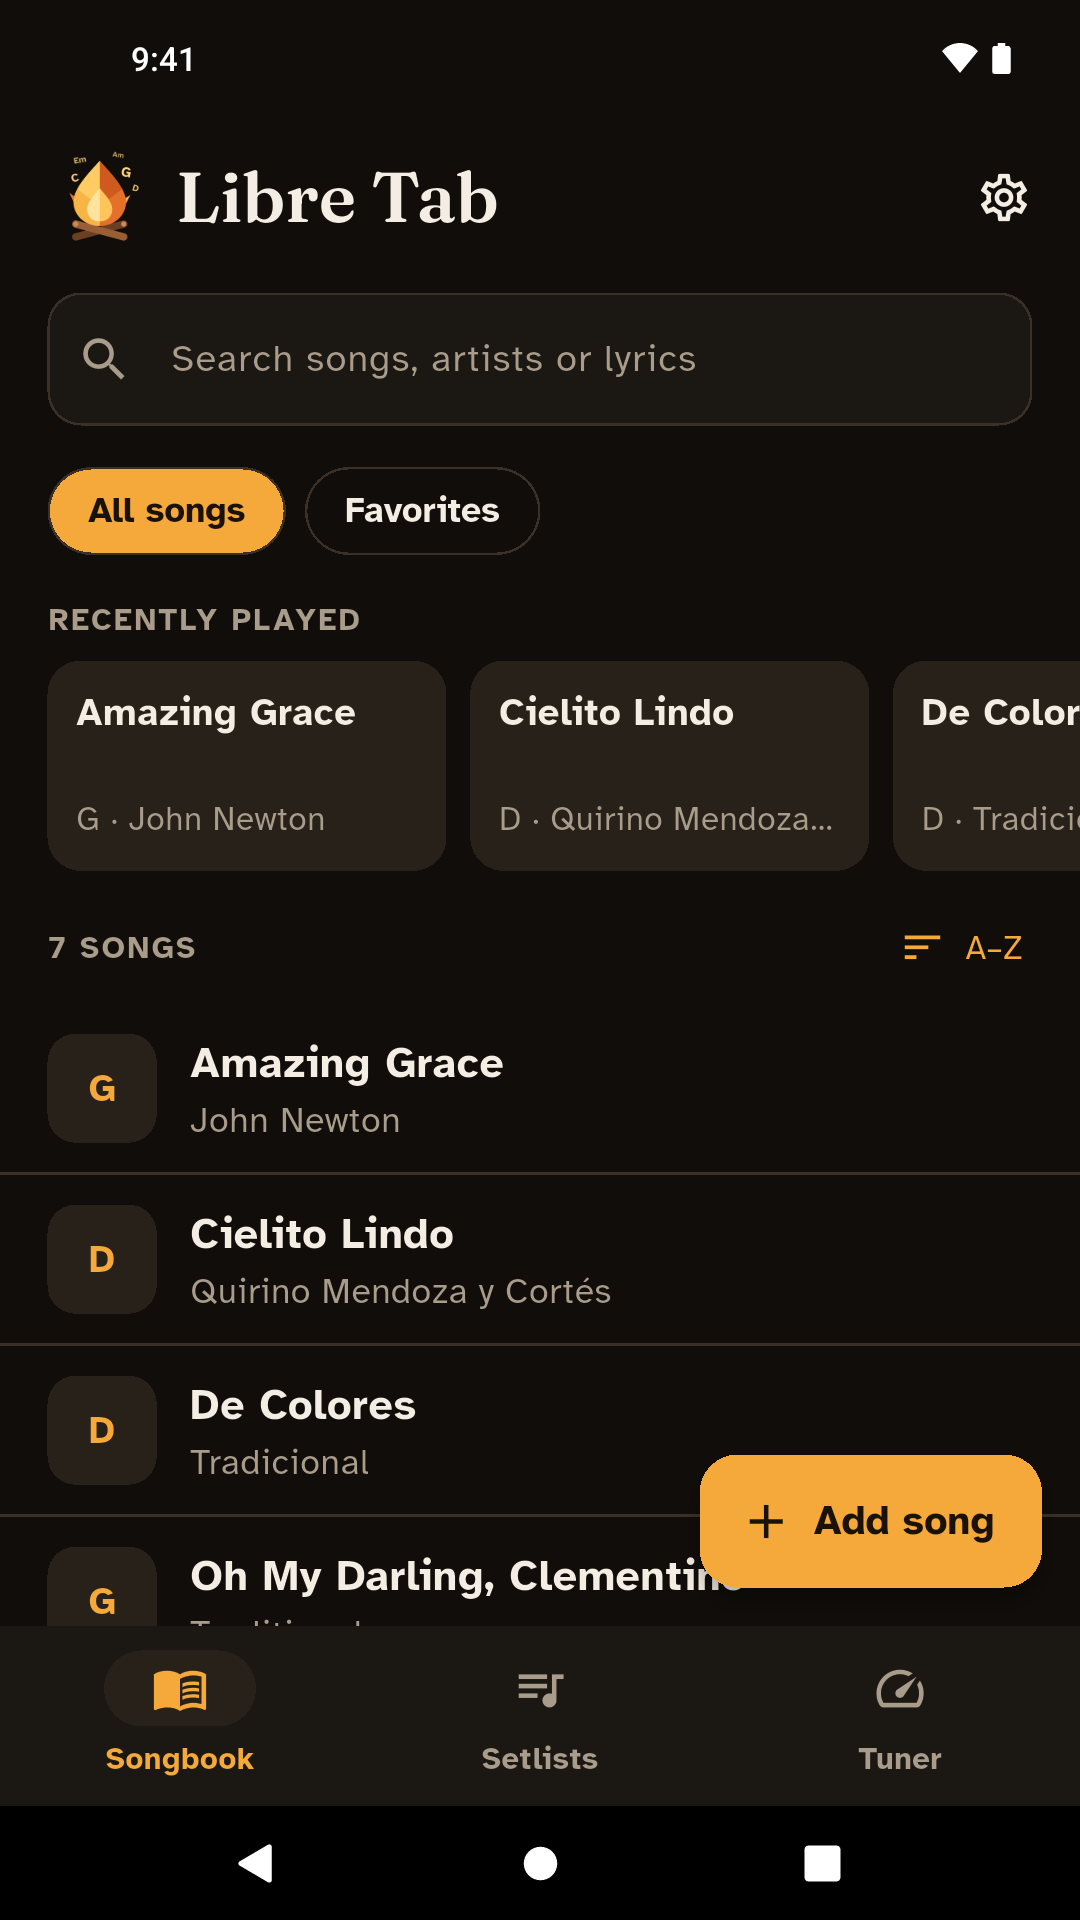
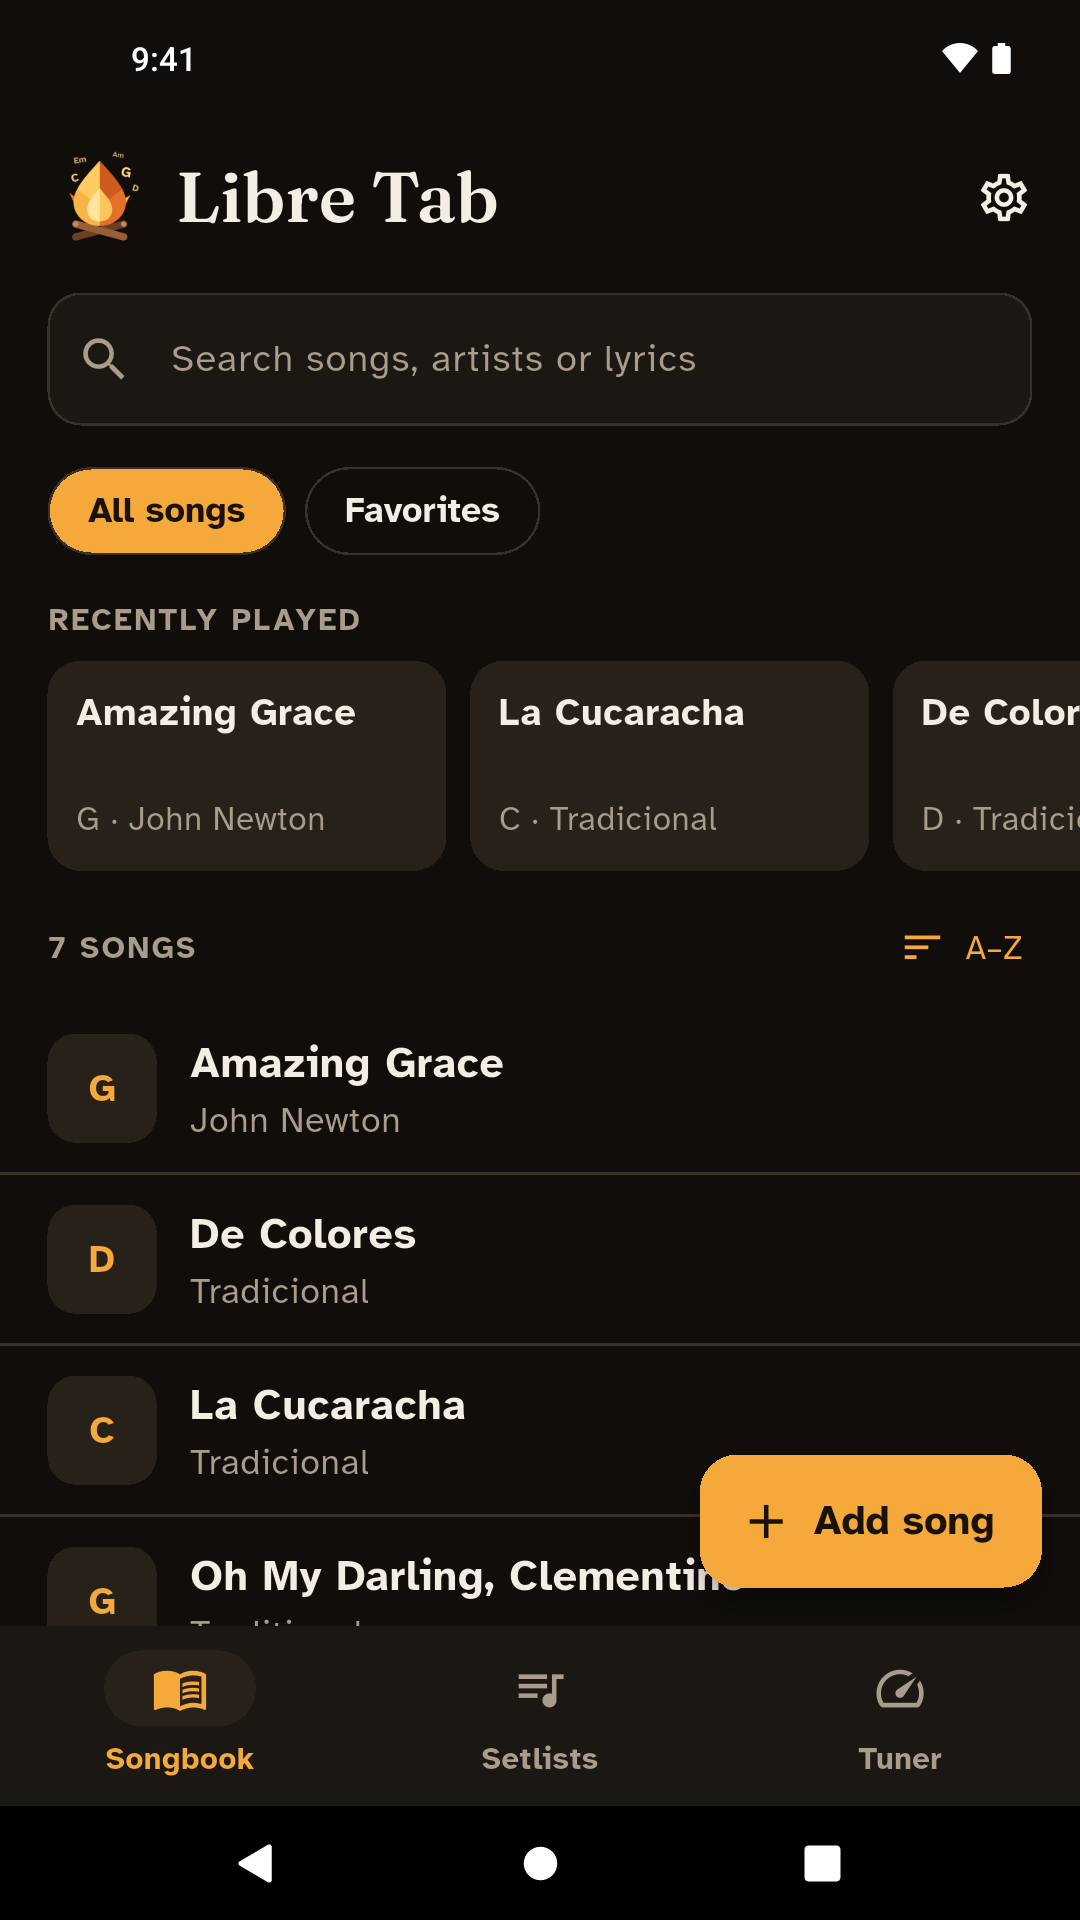
Apple review and security audit: photo decoding, manifest, deletion, song rights
- iOS: scanned photos are no longer decoded at full size. Dimensions are
  checked first (over 200 MP refused) and ImageIO decodes straight to at
  most 4,096 px, turning the photo upright on the way; a crafted huge
  image could otherwise exhaust memory.
- Privacy manifest declares the disk-space API SQLite uses (E174.1),
  found by scanning the built frameworks; App Store Connect would flag it.
- Privacy policy and the in-app Privacy screen say how long data is kept,
  how to delete it and how to withdraw permissions (5.1.1(i)).
- Cielito Lindo replaced by La Cucaracha (traditional): its author died
  in 1957, so it's still protected in the EU and Mexico (5.2.1). Test
  fixture, screenshots (iPhone, iPad, Android) updated.
- App Review notes gain the content-rights basis for each song,
  accessibility labels, files, payments and GPL rows; SECURITY.md
  records the third audit (history, licenses, SQLite, photos, R8).

diff --git a/ios/Runner/AppDelegate.swift b/ios/Runner/AppDelegate.swift
@@ -81,25 +81,35 @@ final class TextRecognition: NSObject, FlutterPlugin {
     }
   }
 
-  /// The photo turned upright: photos can be stored sideways with an
-  /// orientation tag, and lines must run left to right.
+  /// Longest side the photo is read at: plenty for printed text (a 48 MP
+  /// photo is 8064 pixels wide), and a bounded amount of memory.
+  private static let maxSide = 4096
+
+  /// More pixels than any camera takes (a 48 MP photo is 49 million): a
+  /// small file claiming more is a "decompression bomb" and is refused
+  /// before anything is decoded.
+  private static let maxPixels = 200_000_000
+
+  /// The photo turned upright (photos can be stored sideways with an
+  /// orientation tag, and lines must run left to right) and no bigger than
+  /// [maxSide], decoded straight to that size by ImageIO so a huge image
+  /// never sits in memory at full size.
   private static func uprightImage(path: String) -> CGImage? {
     let url = URL(fileURLWithPath: path)
     guard let source = CGImageSourceCreateWithURL(url as CFURL, nil),
-      let image = CGImageSourceCreateImageAtIndex(source, 0, nil)
+      let properties = CGImageSourceCopyPropertiesAtIndex(source, 0, nil)
+        as? [CFString: Any],
+      let width = properties[kCGImagePropertyPixelWidth] as? Int,
+      let height = properties[kCGImagePropertyPixelHeight] as? Int,
+      width > 0, height > 0, width * height <= maxPixels
     else { return nil }
-    let properties = CGImageSourceCopyPropertiesAtIndex(source, 0, nil) as? [CFString: Any]
-    let tag = (properties?[kCGImagePropertyOrientation] as? UInt32) ?? 1
-    let orientations: [UInt32: UIImage.Orientation] = [
-      2: .upMirrored, 3: .down, 4: .downMirrored, 5: .leftMirrored, 6: .right,
-      7: .rightMirrored, 8: .left,
+    let options: [CFString: Any] = [
+      kCGImageSourceCreateThumbnailFromImageAlways: true,
+      kCGImageSourceCreateThumbnailWithTransform: true,  // applies the orientation
+      kCGImageSourceThumbnailMaxPixelSize: min(max(width, height), maxSide),
+      kCGImageSourceShouldCacheImmediately: true,
     ]
-    guard let orientation = orientations[tag] else { return image }
-    let turned = UIImage(cgImage: image, scale: 1, orientation: orientation)
-    let format = UIGraphicsImageRendererFormat()
-    format.scale = 1
-    return UIGraphicsImageRenderer(size: turned.size, format: format)
-      .image { _ in turned.draw(at: .zero) }.cgImage
+    return CGImageSourceCreateThumbnailAtIndex(source, 0, options as CFDictionary)
   }
 }
 

diff --git a/test/core/chordpro/sample_files_test.dart b/test/core/chordpro/sample_files_test.dart
@@ -33,15 +33,15 @@ void main() {
     ]);
   });
 
-  test('cielito-lindo.txt: Spanish labels and chords', () {
-    final result = ChordSheetImporter.convert(sample('cielito-lindo.txt'));
+  test('la-cucaracha.txt: Spanish labels and chords', () {
+    final result = ChordSheetImporter.convert(sample('la-cucaracha.txt'));
     expect(result.sections, 2);
     final song = ChordProParser.parse(result.chordPro);
     final blocks = song.blocks.whereType<SectionBlock>().toList();
     expect(blocks.first.label, 'Estrofa 1');
     expect(blocks.last.kind, SectionKind.chorus);
-    expect(segs(blocks.last.lines.first).first, ('A', 'Ay, ay, ay, '));
-    expect(song.chords.toSet(), {'A', 'E7', 'A7', 'D'});
+    expect(segs(blocks.last.lines.first).first.$1, 'G');
+    expect(song.chords.toSet(), {'G', 'D7'});
   });
 
   test('oh-susanna.cho: ChordPro with capo, chorus repeat and a comment', () {

diff --git a/lib/l10n/app_localizations.dart b/lib/l10n/app_localizations.dart
@@ -1327,6 +1327,18 @@ abstract class AppLocalizations {
   /// In en, this message translates to:
   /// **'That\'s too much text for one song.'**
   String get pasteTooBig;
+
+  /// No description provided for @privacyDeleteTitle.
+  ///
+  /// In en, this message translates to:
+  /// **'Keeping and deleting'**
+  String get privacyDeleteTitle;
+
+  /// No description provided for @privacyDeleteBody.
+  ///
+  /// In en, this message translates to:
+  /// **'Everything stays on this device until you delete it: a song (swipe it left), every song (Settings → Delete all songs), or all of it by uninstalling the app. There is no copy anywhere else. Turn the microphone or camera off in your phone\'s settings whenever you like.'**
+  String get privacyDeleteBody;
 }
 
 class _AppLocalizationsDelegate

diff --git a/lib/l10n/app_localizations_es.dart b/lib/l10n/app_localizations_es.dart
@@ -762,4 +762,11 @@ class AppLocalizationsEs extends AppLocalizations {
 
   @override
   String get pasteTooBig => 'Es demasiado texto para una canción.';
+
+  @override
+  String get privacyDeleteTitle => 'Guardar y borrar';
+
+  @override
+  String get privacyDeleteBody =>
+      'Todo se queda en este dispositivo hasta que lo borres: una canción (deslízala a la izquierda), todas (Ajustes → Borrar todas las canciones), o todo desinstalando la app. No hay una copia en ningún otro lugar. Desactiva el micrófono o la cámara en los ajustes de tu teléfono cuando quieras.';
 }

diff --git a/lib/l10n/app_localizations_en.dart b/lib/l10n/app_localizations_en.dart
@@ -765,4 +765,11 @@ class AppLocalizationsEn extends AppLocalizations {
 
   @override
   String get pasteTooBig => 'That\'s too much text for one song.';
+
+  @override
+  String get privacyDeleteTitle => 'Keeping and deleting';
+
+  @override
+  String get privacyDeleteBody =>
+      'Everything stays on this device until you delete it: a song (swipe it left), every song (Settings → Delete all songs), or all of it by uninstalling the app. There is no copy anywhere else. Turn the microphone or camera off in your phone\'s settings whenever you like.';
 }

diff --git a/lib/features/settings/presentation/privacy_screen.dart b/lib/features/settings/presentation/privacy_screen.dart
@@ -46,6 +46,7 @@ class PrivacyScreen extends StatelessWidget {
             section(l10n.privacySongsTitle, l10n.privacySongsBody),
             section(l10n.privacyMicTitle, l10n.privacyMicBody),
             section(l10n.privacyPhotosTitle, l10n.privacyPhotosBody),
+            section(l10n.privacyDeleteTitle, l10n.privacyDeleteBody),
             const SizedBox(height: 28),
             Text(l10n.privacyMore, style: TextStyle(color: colors.muted)),
             const SizedBox(height: 4),

diff --git a/test/features/settings/settings_screen_test.dart b/test/features/settings/settings_screen_test.dart
@@ -138,7 +138,7 @@ void main() {
 
     expect(await songCount(container), StarterSongs.files.length);
     expect(find.text('Amazing Grace'), findsOneWidget);
-    expect(find.text('Cielito Lindo'), findsOneWidget);
+    expect(find.text('La Cucaracha'), findsOneWidget);
   });
 
   testWidgets('About shows the license and opens the licenses page', (

diff --git a/lib/features/library/data/starter_songs.dart b/lib/features/library/data/starter_songs.dart
@@ -20,10 +20,10 @@ class StarterSongs {
 
   static const files = [
     'amazing-grace.cho',
-    'cielito-lindo.cho',
     'clementine.cho',
     'coming-round-the-mountain.cho',
     'de-colores.cho',
+    'la-cucaracha.cho',
     'oh-susanna.cho',
     'red-river-valley.cho',
   ];

diff --git a/docs/store/app-review.md b/docs/store/app-review.md
@@ -13,7 +13,7 @@ to enter in App Store Connect, and the notes for the reviewer.
 | Universal: iPhone and iPad, all iPad orientations (2.4.1) | ✅ |
 | Version 1.0.0, build 1 (`pubspec.yaml`) | ✅ |
 | `ITSAppUsesNonExemptEncryption = NO` (no export-compliance prompt) | ✅ |
-| App privacy manifest (`ios/Runner/PrivacyInfo.xcprivacy`): no tracking, no data collected; required-reason APIs: file timestamps `C617.1` (SQLite, own container), UserDefaults `CA92.1`. Every plugin ships its own manifest. | ✅ |
+| App privacy manifest (`ios/Runner/PrivacyInfo.xcprivacy`): no tracking, no data collected; required-reason APIs: file timestamps `C617.1` (SQLite, own container), UserDefaults `CA92.1`, disk space `E174.1` (SQLite checks free space before writing its files; found by scanning the built binaries for `statfs`). Every plugin ships its own manifest; the SQLite and Objective-C frameworks built from source have none, so the app's declares what they use. | ✅ |
 | Launch screen: dark, with the logo (no white flash) | ✅ |
 | Icon: 1024 × 1024, opaque, no alpha | ✅ |
 
@@ -31,7 +31,12 @@ Connect.
 - Primary language: English (U.S.); add Spanish (Mexico) and/or Spanish
   (Spain) localizations with the Spanish text from listing.md.
 - Content rights: *Does your app contain, show, or access third-party
-  content?* → **No**. The bundled songs are public domain (list in
+  content?* → **No**. The bundled songs are public domain in every
+  storefront: traditional (Red River Valley, Clementine, She'll Be Coming
+  'Round the Mountain, De Colores, La Cucaracha) or by authors who died
+  before 1900 (John Newton 1807, Stephen Foster 1864). Cielito Lindo was
+  dropped: its author died in 1957, so it's still protected under life+70
+  (EU) and life+100 (Mexico). (List in
   `lib/features/library/data/starter_songs.dart`); everything else is what
   users add themselves, stored only on their device.
 - Price: Free · no in-app purchases.
@@ -39,6 +44,12 @@ Connect.
 **App Privacy** → *Data Not Collected*. No tracking. Privacy policy URL:
 `https://github.com/Brunux/libre-tab/blob/main/PRIVACY.md` (push the repo
 first so the link works).
+
+**Accessibility** (the App Store's accessibility labels, per device):
+VoiceOver ✅, Voice Control ✅, Larger Text ✅, Dark Interface ✅ (dark by
+default), Differentiate Without Color Alone ✅ (states also shown by text
+or icons: ✓, "In tune"), Sufficient Contrast ✅ (tested), Reduced Motion ✅.
+Captions and Audio Descriptions: not applicable (no video).
 
 **Age rating** (the questionnaire updated in 2026): answer **None / No**
 to everything — no violence, sexual content, profanity, drugs, gambling,
@@ -86,6 +97,7 @@ Paste into *App Review Information → Notes*, and attach
 | Guideline | How Libre Tab meets it |
 |---|---|
 | 1.2 User-generated content | No in-app sharing, posting or social features; songs stay on the device. Not a UGC platform. |
+| 2.5.15 Files | Open file and Import use the system document picker: Files and iCloud Drive included. |
 | 2.1 Completeness | No placeholders; starter songs make the first launch useful. Tested on a real iPhone (24 Sep 2026: tuning a guitar, setlist auto-advance, Open in Libre Tab from Files, Paste) and the iPad simulator. Test on a real iPad too if possible — reviewers often use one. |
 | 2.3.1 Hidden features | None. |
 | 2.3.3 Screenshots | All show the app in use (no splash or intro screens). |
@@ -99,12 +111,15 @@ Paste into *App Review Information → Notes*, and attach
 | 2.5.14 Recording consent | Explanation screen before the microphone prompt; the tuner visibly listens (needle, note); iOS shows its microphone indicator. |
 | Accessibility | VoiceOver labels on every control (custom actions for swipe actions and the theme menu); Dynamic Type; follows Reduce Motion (no title flight, no folding or springing); contrast and tap sizes checked by tests on every screen and theme. |
 | 4.2 Minimum functionality | Native songbook with transposition, capo, auto-scroll, setlists, chord diagrams, on-device OCR, and a tuner. |
-| 5.1.1(i) Privacy policy | In App Store Connect **and** in the app (Settings → Privacy). |
+| 5.1.1(i) Privacy policy | In App Store Connect **and** in the app (Settings → Privacy), both saying what stays on the device, how long it's kept, how to delete it (a song, all songs, or the app) and how to withdraw the microphone and camera permissions. |
 | 5.1.1(ii)/(iv) Permissions | Purpose strings in English and Spanish; asked only when a feature is used; refusal handled gracefully. |
 | 5.1.1(iv) Permission prompts | Neutral pre-prompt ("Start tuner"), no "Allow" wording or skip button; refusals offer Open Settings and an alternative (docs/DESIGN.md § Permissions). |
 | 5.1.1(iii) Data minimization | Photos through the system picker (no library permission); only the camera and microphone are requested. |
 | 5.1.2 Data use | Nothing collected or shared; no third-party analytics/ads SDKs. |
-| 5.2 Intellectual property | Bundled songs are public domain; the logo is original; fonts are OFL; open-source licenses in the app. Users' own imports are private to them. |
+| 5.2 Intellectual property | Bundled songs are public domain worldwide (see Content rights); the logo is original; fonts are OFL; open-source licenses in the app. There's no catalog, search or download of lyrics: songs users add come from their own files, clipboard or photos and stay private to them, like notes. |
+| 5.2.3 Third-party media | No saving, converting or downloading from other services. |
+| 3.1 Payments | Free, no In-App Purchase, no ads. No links to outside payment: outside the US storefront they aren't allowed (3.1.1(a)). |
+| GPL and the App Store | All the app's GPL code is the developer's own, so publishing it on the App Store is the copyright holder's call; every third-party package is MIT, BSD or Apache (the one LGPL package, `dbus`, is Linux-only and not in the iOS app). Before accepting outside contributions, add an App Store permission (GPL section 7) or a contributor agreement. |
 
 ## Before pressing Submit
 

diff --git a/SECURITY.md b/SECURITY.md
@@ -32,6 +32,39 @@ Libre Tab is an offline app with no account and no server.
   picker, which needs no permission and only shares the photos picked; the
   app deletes its copy after reading it.
 
+## Audit — 24 September 2026, third pass (after motion and the library updates)
+
+An in-depth pass over the shipped binaries as well as the source: the
+built iOS app's frameworks and privacy manifests, the native photo and
+file code on both platforms, the whole git history, package licenses, the
+bundled SQLite, and the bundled content's copyright.
+
+### Fixed
+
+| Issue | Risk | Fix |
+|---|---|---|
+| iOS decoded a scanned photo at full resolution before reading it | A small file claiming enormous dimensions (a "decompression bomb", e.g. 30,000 × 30,000) needs gigabytes of memory: the app is killed | Dimensions read first and anything over 200 million pixels refused; the photo is then decoded straight to at most 4,096 px by ImageIO (which also turns it upright), never at full size. Android already decoded at a reduced size. Verified on the iPad simulator: the review sample reads back exactly |
+| The bundled SQLite calls `statfs`/`fstatfs` (disk space), undeclared in the privacy manifest | App Store Connect flags undeclared required-reason APIs (ITMS-91053) and can reject the upload | `NSPrivacyAccessedAPICategoryDiskSpace` / `E174.1` declared; every framework in the built app was scanned for required-reason symbols |
+| The privacy policy didn't say how long data is kept or how to delete it | Guideline 5.1.1(i) requires both | A "Keeping and deleting your data" section in PRIVACY.md (EN/ES) and in the app's Privacy screen |
+| A bundled starter song, Cielito Lindo, isn't public domain everywhere (author died 1957: protected until 2027 in the EU and 2057 in Mexico) | Distributing a protected work in those storefronts (guideline 5.2.1) | Replaced by La Cucaracha (traditional), with family-friendly verses; the test fixture and screenshots changed with it |
+
+### Checked, no issue
+
+- **Git history:** no keys, tokens, passwords or keystores in any commit.
+- **Bundled SQLite** is the July 2026 release (current).
+- **Licenses:** 148 packages — MIT, BSD, Apache; the one LGPL package
+  (`dbus`) is only used on Linux and isn't in the phone apps. No
+  third-party GPL code, so App Store distribution is the author's call.
+- **Photos:** the system picker hands over only the chosen photos (it notes
+  that their location is included); the app reads them on the device,
+  deletes its copy, and never sends them anywhere.
+- **Android release:** Flutter's release build shrinks and obfuscates with
+  R8 by default and isn't debuggable; permissions and exported components
+  as in the previous pass.
+- An Android "not responding" seen during emulator testing was traced to
+  the host running out of memory (all app threads idle in the trace), not
+  to the app.
+
 ## Audit — 24 September 2026 (after the UI round)
 
 A second full pass, focused on what changed since the first: the paste

diff --git a/PRIVACY.md b/PRIVACY.md
@@ -1,6 +1,6 @@
 # Privacy — Libre Tab
 
-*Last updated: September 23, 2026*
+*Last updated: September 24, 2026*
 
 **Libre Tab collects no data.** It has no account, no ads, no analytics and
 no crash reporting, and it never connects to the internet.
@@ -39,6 +39,17 @@ system photo picker, so Libre Tab only ever sees the photos you pick, never
 your library. The camera is only used when you tap "Take a photo", after the
 system asks for your permission.
 
+## Keeping and deleting your data
+
+Your songs, setlists, settings and play history stay on your phone for as
+long as you keep them; Libre Tab has no copy anywhere else, so there is
+nothing to ask us to delete. You can delete a song (swipe it left, or Delete
+in the song's menu), every song at once (Settings → Delete all songs), or
+everything by uninstalling the app. A backup of your phone made by the
+system (iCloud, Google) keeps its copy until you delete that backup. To
+withdraw the microphone or camera permission, turn it off in your phone's
+settings; Libre Tab stops using it at once.
+
 ## Children
 
 Libre Tab collects no data from anyone, children included.
@@ -55,7 +66,7 @@ its source code is public, so all of the above can be checked.
 
 # Privacidad — Libre Tab
 
-*Última actualización: 23 de septiembre de 2026*
+*Última actualización: 24 de septiembre de 2026*
 
 **Libre Tab no recopila datos.** No tiene cuenta, anuncios, analíticas ni
 reportes de errores, y nunca se conecta a internet.
@@ -91,6 +102,18 @@ en otros teléfonos); las fotos nunca se envían a ningún lado y no se guardan.
 Elegir fotos usa el selector de fotos del sistema, así que Libre Tab solo ve
 las fotos que eliges, nunca tu fototeca. La cámara solo se usa cuando tocas
 "Tomar una foto", después de que el sistema te pide permiso.
+
+## Cómo se guardan y se borran tus datos
+
+Tus canciones, repertorios, ajustes e historial se quedan en tu teléfono
+mientras los conserves; Libre Tab no tiene una copia en ningún otro lugar,
+así que no hay nada que pedirnos borrar. Puedes borrar una canción
+(deslízala a la izquierda, o Borrar en el menú de la canción), todas a la vez
+(Ajustes → Borrar todas las canciones), o todo desinstalando la app. Un
+respaldo de tu teléfono hecho por el sistema (iCloud, Google) conserva su
+copia hasta que borres ese respaldo. Para retirar el permiso del micrófono o
+de la cámara, desactívalo en los ajustes de tu teléfono; Libre Tab deja de
+usarlo de inmediato.
 
 ## Niños
 

diff --git a/docs/store/listing.md b/docs/store/listing.md
@@ -154,7 +154,7 @@ round; status bar at 9:41):
   Not for Google Play: Play rejects a long side more than twice the short
   one (2868 / 1320 = 2.17).
 - **iPad** 13" (required because the app is universal), 2064 × 2752:
-  `docs/store/screenshots/ipad/` — songbook, song (Cielito Lindo), chord
+  `docs/store/screenshots/ipad/` — songbook, song (La Cucaracha), chord
   diagrams, tuner; the side rail layout.
 - **Google Play** phone, 1080 × 1920 (9:16, meets Play's size rules and its
   recommendation for promotion), Android 13 in demo mode:
